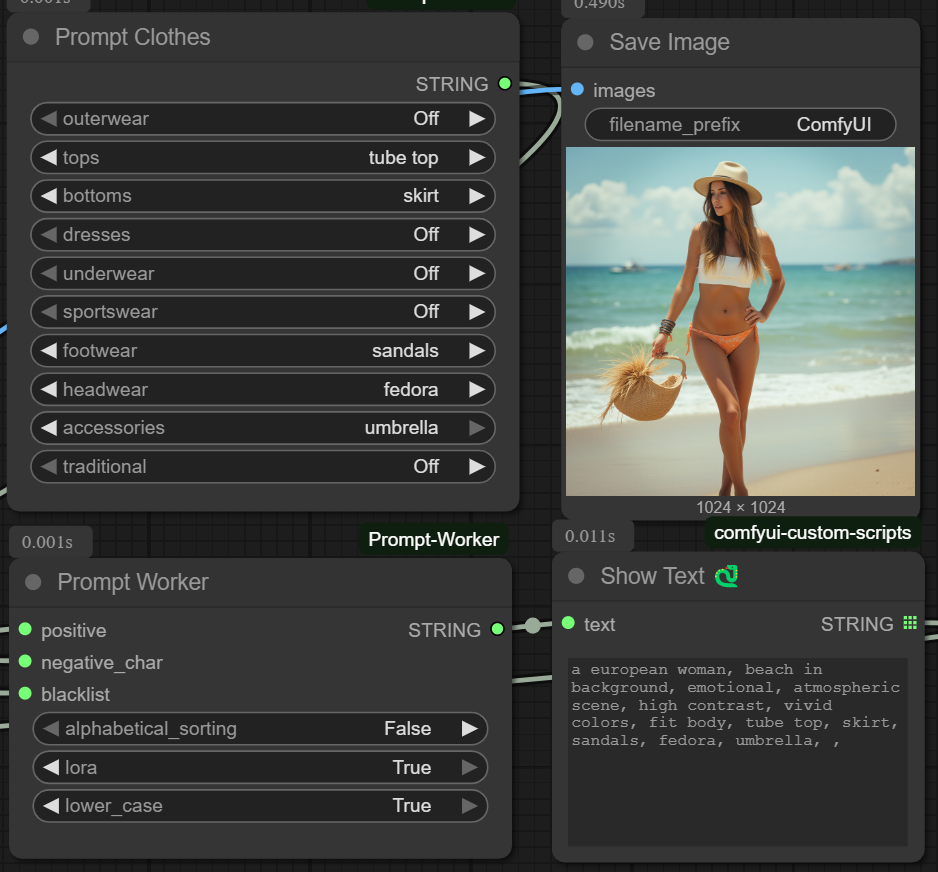
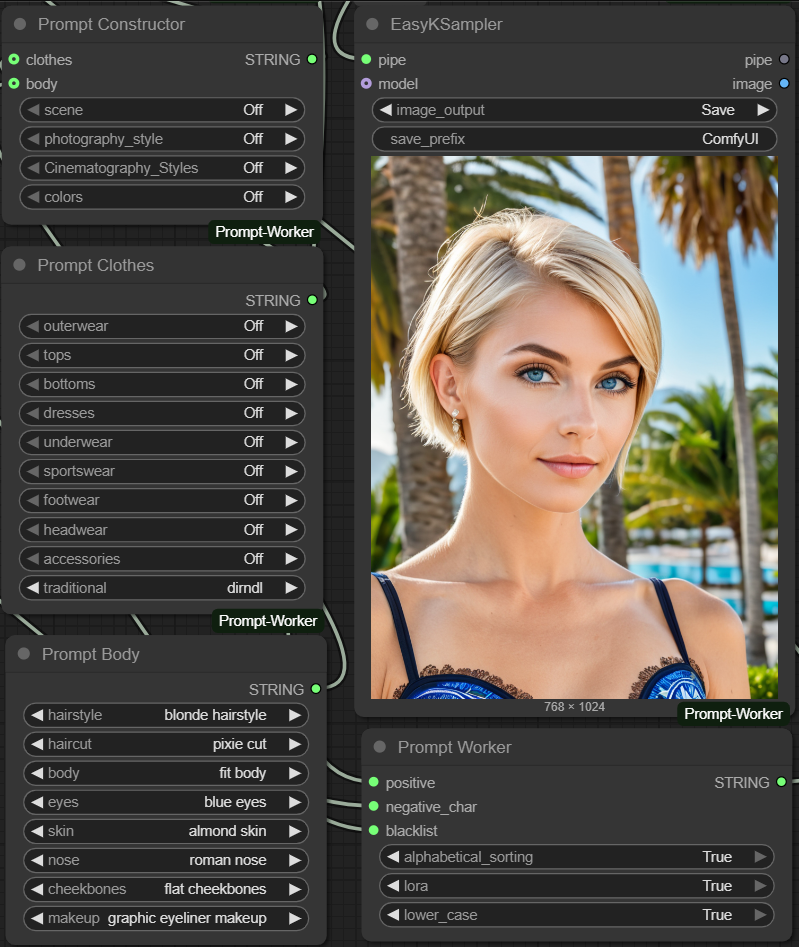
added the new node BODY

diff --git a/nodes/body.py b/nodes/body.py
@@ -1,0 +1,85 @@
+import json
+
+        
+class BodyConstructor:
+    
+
+    @classmethod
+    def INPUT_TYPES(cls):
+
+        with open('./custom_nodes/ComfyUI-Prompt-Worker/settings/hair_types.json', 'r') as file:
+            hair_types = json.load(file)
+
+        with open('./custom_nodes/ComfyUI-Prompt-Worker/settings/body.json', 'r') as file:
+            body = json.load(file)              
+
+        with open('./custom_nodes/ComfyUI-Prompt-Worker/settings/eyes.json', 'r') as file:
+            eyes = json.load(file)
+
+        with open('./custom_nodes/ComfyUI-Prompt-Worker/settings/skins.json', 'r') as file:
+            skins = json.load(file)
+
+        with open('./custom_nodes/ComfyUI-Prompt-Worker/settings/cut.json', 'r') as file:
+            haircut = json.load(file)   
+
+        with open('./custom_nodes/ComfyUI-Prompt-Worker/settings/nose.json', 'r') as file:
+            nose = json.load(file)    
+
+        with open('./custom_nodes/ComfyUI-Prompt-Worker/settings/cheekbones.json', 'r') as file:
+            cheekbones = json.load(file)
+
+        with open('./custom_nodes/ComfyUI-Prompt-Worker/settings/makeup.json', 'r') as file:
+            makeup = json.load(file)                
+            
+                          
+              
+        return {"required": {
+                    "hairstyle": (hair_types,),
+                    "haircut": (haircut,),
+                    "body": (body,),
+                    "eyes": (eyes,),
+                    "skin": (skins,),
+                    "nose": (nose,),
+                    "cheekbones": (cheekbones,),
+                    "makeup": (makeup,),
+                }, 
+            }
+
+    RETURN_TYPES = ("STRING",)
+    FUNCTION = "constructor"
+    CATEGORY = "Prompt Worker"
+
+  
+    def constructor(self,hairstyle,haircut,body,eyes,skin,nose,cheekbones,makeup,):
+
+        styles = list()
+        constructor_string = ""
+
+        if hairstyle != "Off":
+            styles.append(hairstyle)    
+
+        if haircut != "Off":
+            styles.append(haircut)
+
+        if body != "Off":
+            styles.append(body)  
+
+        if eyes != "Off":
+            styles.append(eyes)    
+
+        if skin != "Off":
+            styles.append(skin)  
+
+        if nose != "Off":
+            styles.append(nose)
+
+        if cheekbones != "Off":
+            styles.append(cheekbones)
+        
+        if makeup != "Off":
+            styles.append(makeup)
+
+        for i in styles:
+            constructor_string+= i + ',' 
+
+        return (constructor_string,)

diff --git a/nodes/constructor.py b/nodes/constructor.py
@@ -28,10 +28,10 @@ class PromptConstructor:
                     "photography_style": (Photography_Styles,),
                     "Cinematography_Styles": (Cinematography_Styles,),
                     "colors": (colors,),
-                    "body": (body,),
                 },
                 "optional":{
                     "clothes": ("STRING", {"forceInput": True}), 
+                    "body": ("STRING", {"forceInput": True}), 
             },  
             }
 
@@ -40,7 +40,7 @@ class PromptConstructor:
     CATEGORY = "Prompt Worker"
 
   
-    def constructor(self, scene, photography_style,Cinematography_Styles, colors,body,**kwargs):
+    def constructor(self, scene, photography_style,Cinematography_Styles, colors,**kwargs):
 
 
         styles = list()
@@ -56,14 +56,13 @@ class PromptConstructor:
             styles.append(photography_style)
 
         if colors != "Off":
-            styles.append(colors)
-
-        if body != "Off":
-            styles.append(body)    
+            styles.append(colors)  
 
         if "clothes" in kwargs:
-            print(kwargs['clothes']) 
-            styles.append(kwargs['clothes'])                    
+            styles.append(kwargs['clothes'])   
+
+        if "body" in kwargs:
+            styles.append(kwargs['body'])                                 
 
         for i in styles:
             constructor_string+= i + ',' 

diff --git a/__init__.py b/__init__.py
@@ -1,12 +1,14 @@
 from .nodes.worker import *
 from .nodes.constructor import *
 from .nodes.clothes import *
+from .nodes.body import *
 
 NODE_CLASS_MAPPINGS = { 
 
     "Prompt Worker": PromptWorker,
     "Prompt Сonstructor": PromptConstructor,
     "Prompt Clothes": ClothesConstructor,
+    "Prompt Body": BodyConstructor,
 
     }
     

diff --git a/README.md b/README.md
@@ -38,6 +38,8 @@ Updated July 10, 2025:
 Updated July 11, 2025:
 * Two separate nodes were created. One for styles, the second for clothes. Now three nodes. The first node is the main one, it removes duplicates, sorts alphabetically, replaces tokens, removes tokens from the blacklist. The second node and the third node are optional. The second one is responsible for styles. The third one is responsible for the type of clothing. The lists are located in external files in the settings directory.
 
+Updated July 12, 2025:
+* Added new node "body", you can choose body type, hairstyle, makeup and etc.
 
 ### Installation
 
@@ -80,6 +82,9 @@ Updated July 11, 2025:
 
 Обновление от 11 июля 2025:
 * Были созданы две отдельные ноды. Одна по стилям, вторая по одежде. Теперь три ноды. Первая нода основная убирает дубликаты, сортирует по алфавиту, заменяет токены, убирает токены из черного списка. Вторая нода конструирует стили. Вторая отвечает за стили. Третья за тип одежды. Списки находятся во внешних файлах в директории settings.
+
+Обновление от 12 июля 2025:
+* Добавлена новая нода "тело", вы можете выбрать телосложение, прическу, макияж и так далее.
 
 ### Установка
 
